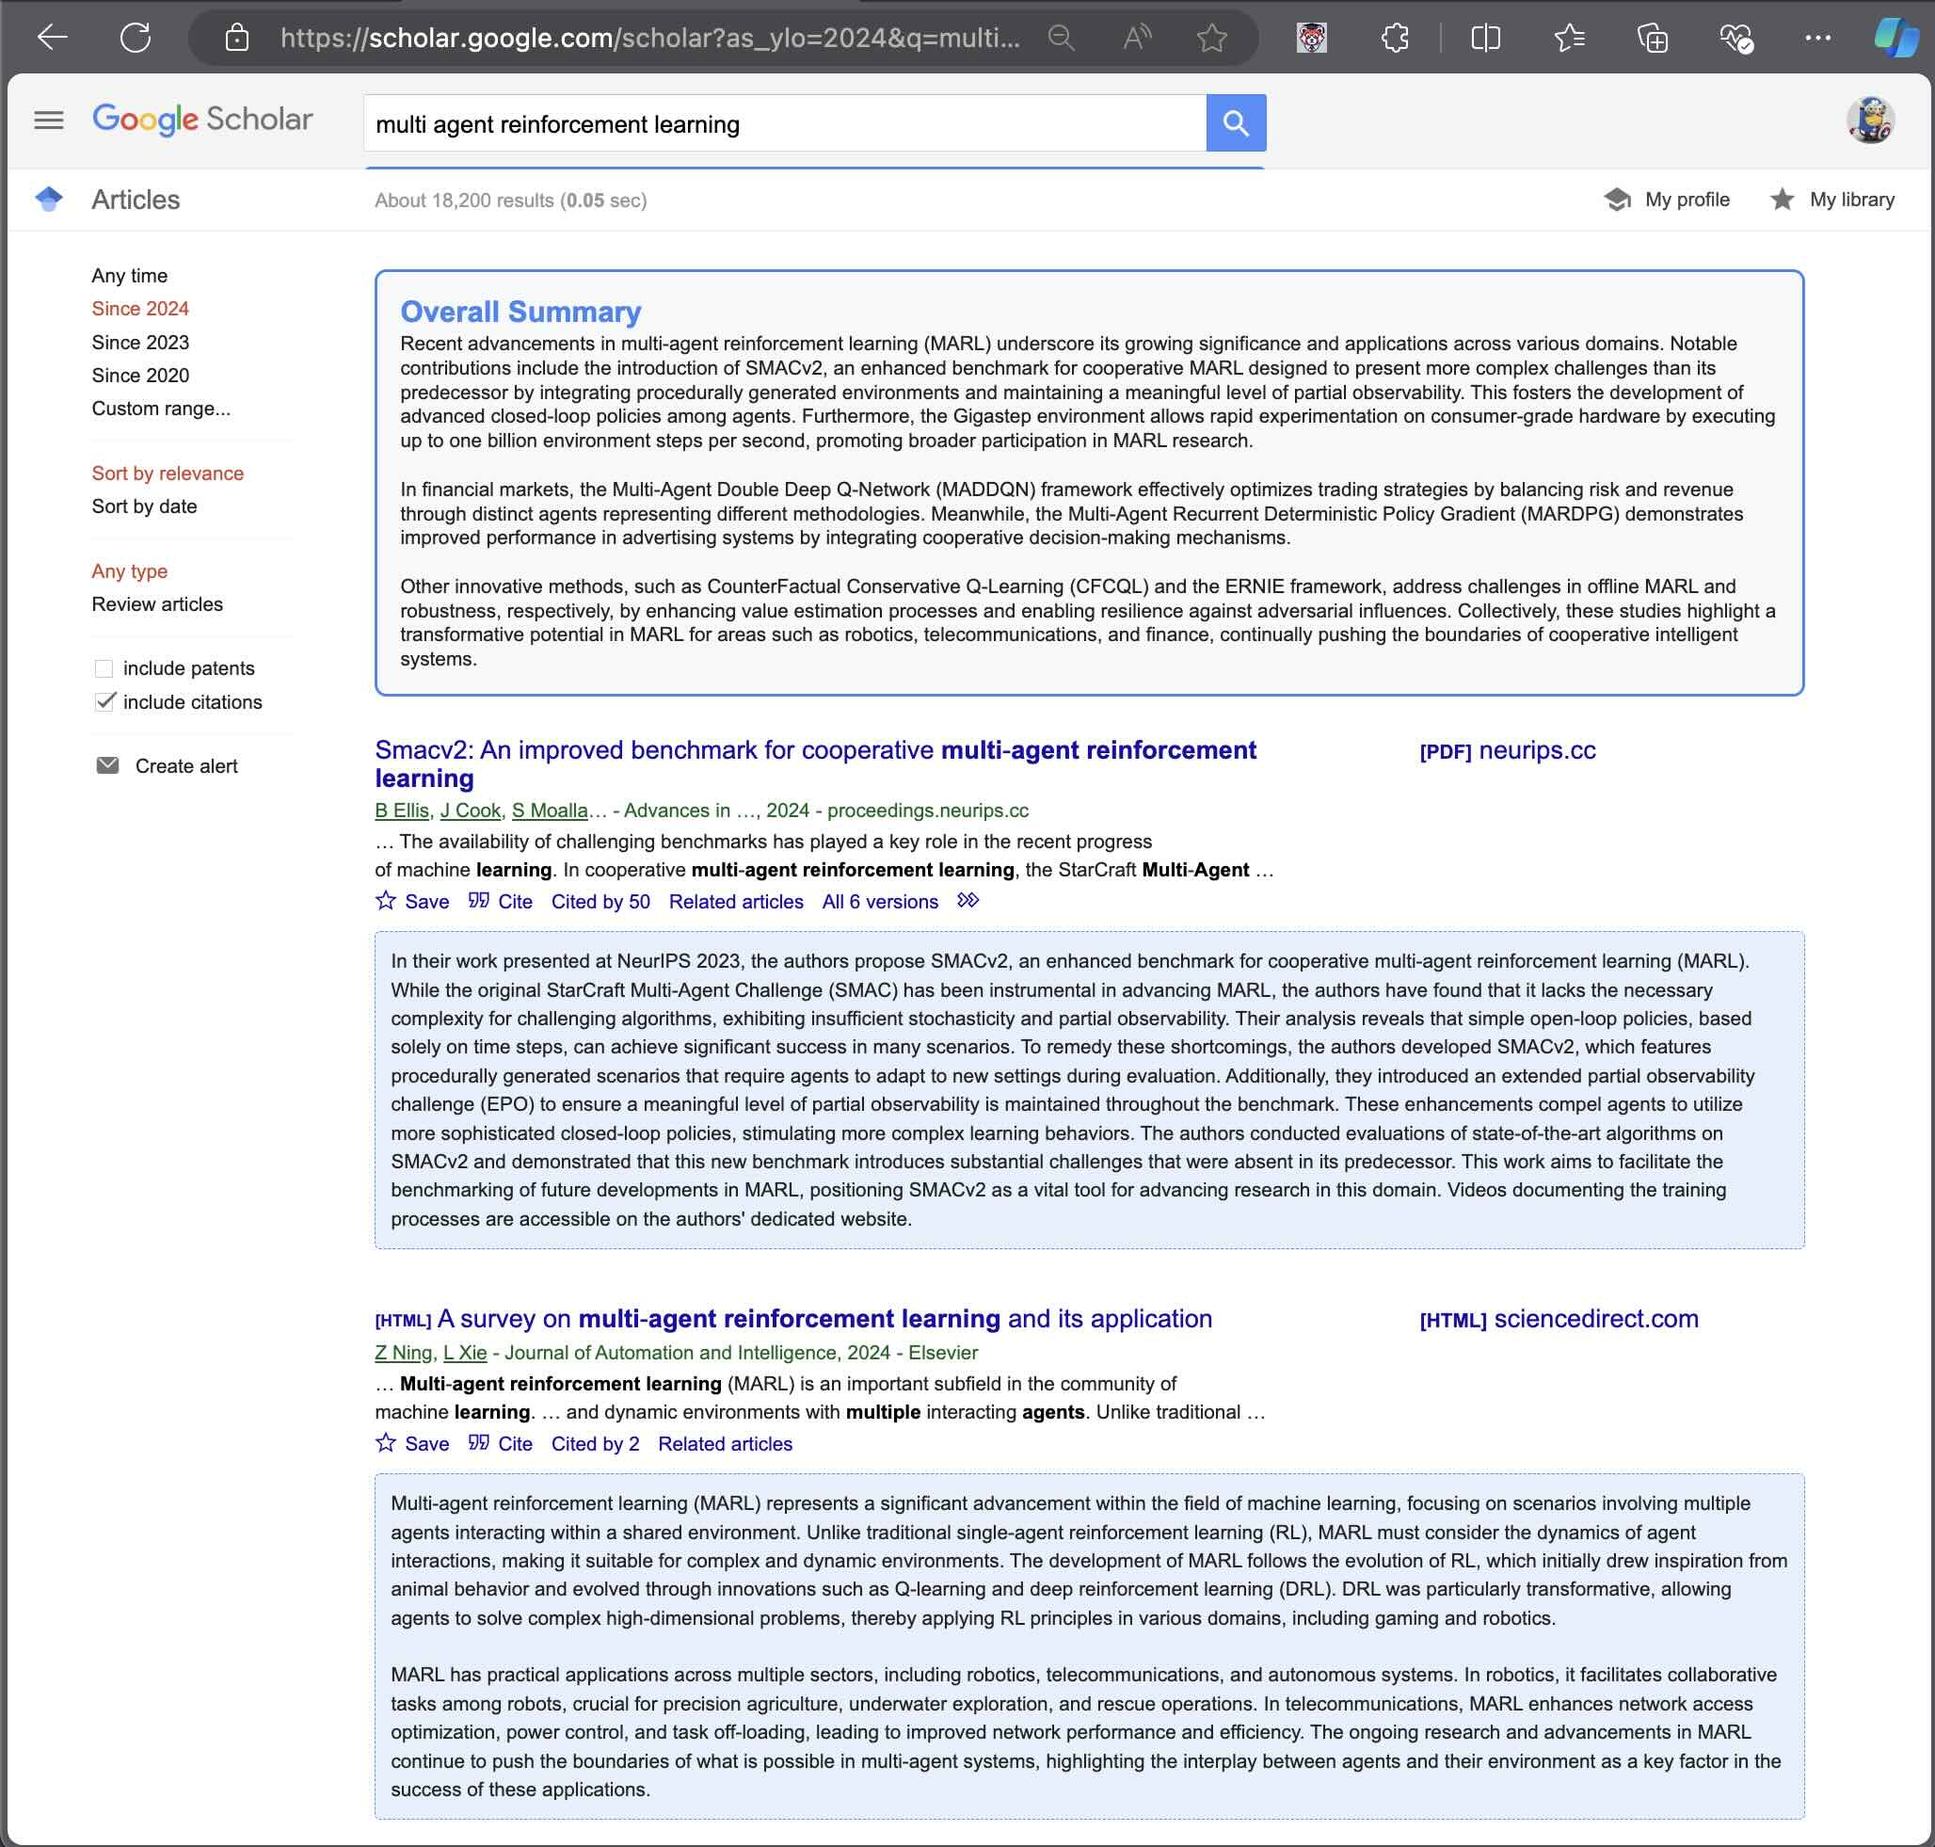
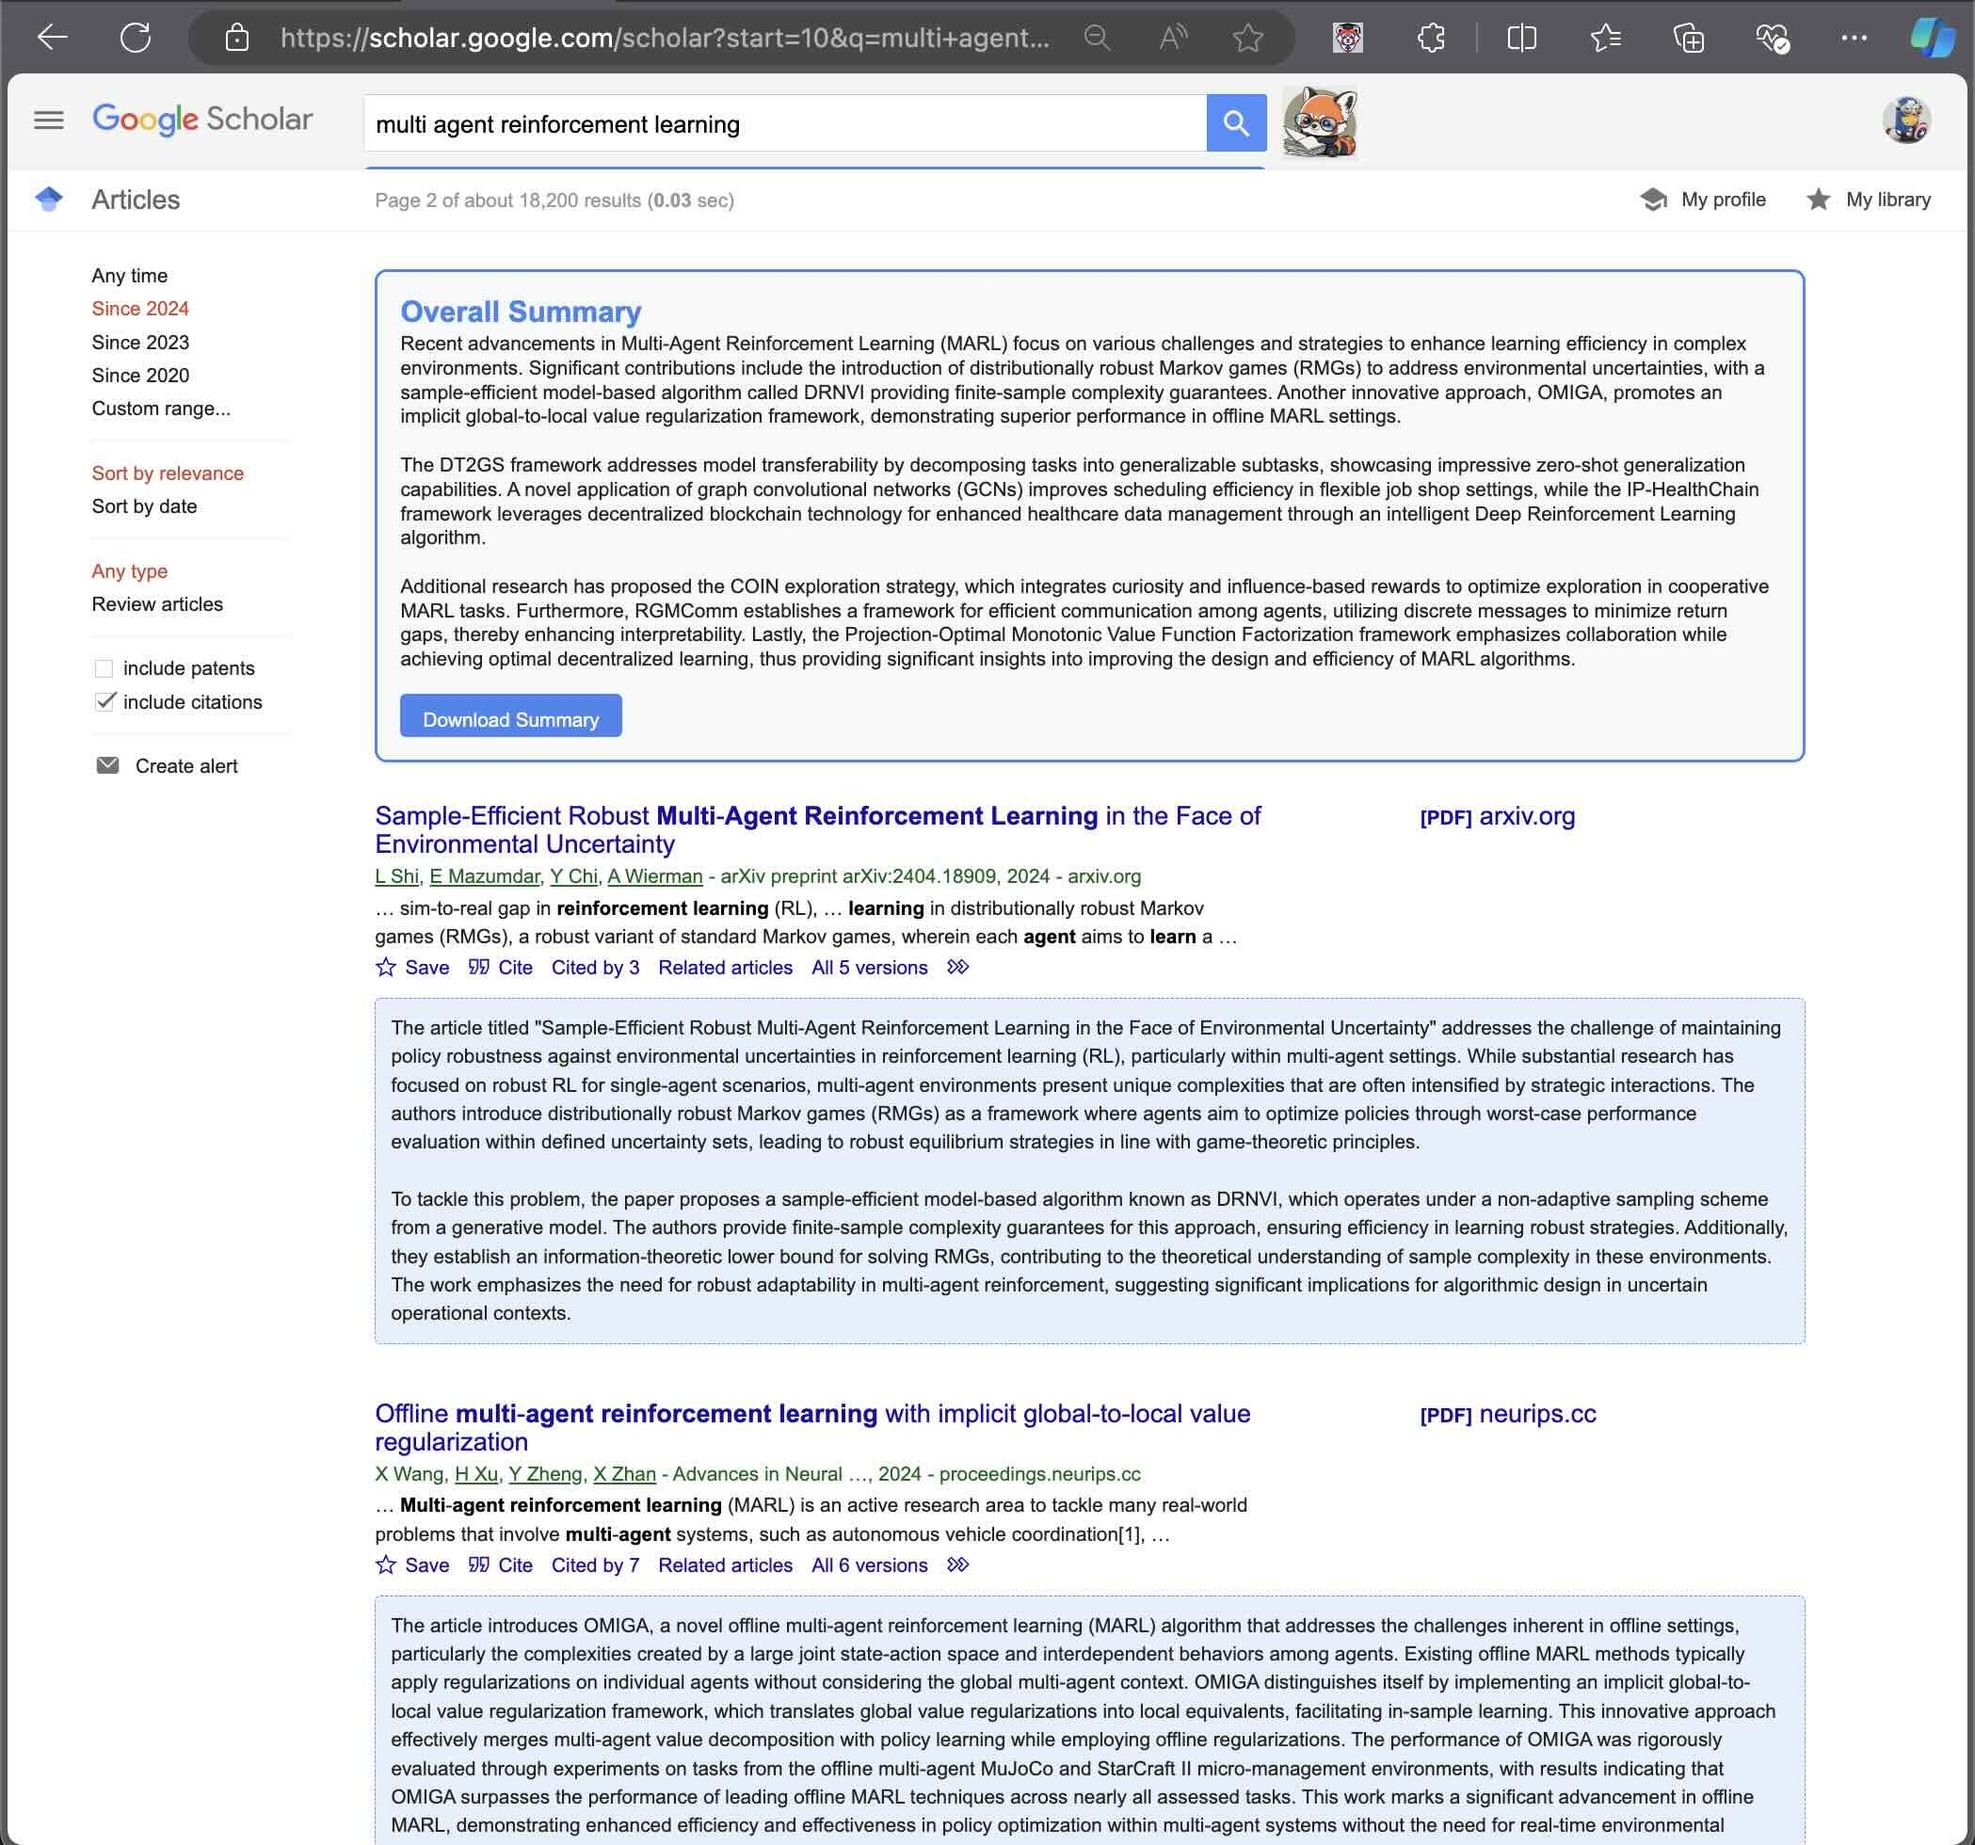
update screenshots and README for button behavior change

diff --git a/README.md b/README.md
@@ -5,6 +5,7 @@ High voltage warning: it is mostly for my personal use, never promised stability
 
 Change logs:
 
+* July 31 afternoon: added long term cache for search results; added "Download Summary" function to export to Markdown; Add red panda animation next to the search button to start summary.
 * July 31: update UI with a small blue line for progress bar under the search box; add red panda logo and user click the extension button to run summarization; add rate limiting to the backend.
 * July 30: add Llama 3.1 support via Groq; add "start summary" and a progress bar, and the summary shows up one by one when done.
 
@@ -14,6 +15,7 @@ Change logs:
 2. Add your OpenAI API key or Groq API key for Llama
     - `export OPENAI_API_KEY=sk-...`
     - (optional) `export GROQ_API_KEY=gsk_...` (check `app.py` how to switch to Llama models)
+    - (optional) `export JENA_READER_API_KEY=jina_` (check <https://jina.ai/reader/> for API use)
 3. Install Chrome extension in dev mode
     - Open Chrome and navigate to chrome://extensions/.
     - Enable "Developer mode" using the toggle in the top right corner.
@@ -26,9 +28,9 @@ Change logs:
 
 ## How to use
 
-After successful installation and the backend is running, one can find the extension as a scholarly red panda logo button when reach a google scholar search page. Click it and wait for a few seconds for the small blue line under the search box progress, one should see the summaries on the page.
+After successful installation and the backend is running, one can a scholarly red panda icon on a google scholar search page. Click it, see a nodding red panda animation, and wait for a few seconds for the progress bar finishing, one should see the summaries on the page.
 
-The terminal window running the python backend should see the progress, if concerned.
+The terminal window running the python backend should see the details, if concerned.
 
 ## How does it work
 
@@ -40,3 +42,8 @@ It has a JS frontend and a python/flask backend. The JS frontend load the google
 
 Well, we definitely need a JS expert for a better frontend and UI. The backend can be replaced by a JS backend as well, since it is just on-demand crawling plus OpenAI API calls. In future, it is possible to use on-device LLM provided by Chrome or MLC WebLLM.
 
+Another direction that I am working on: the flask backend can be powerful to collect external data beyond JS. Stay tuned.
+
+## Acknowledgement  
+
+* Jena.ai has a great reader function to crawl a webpage. Good job!
